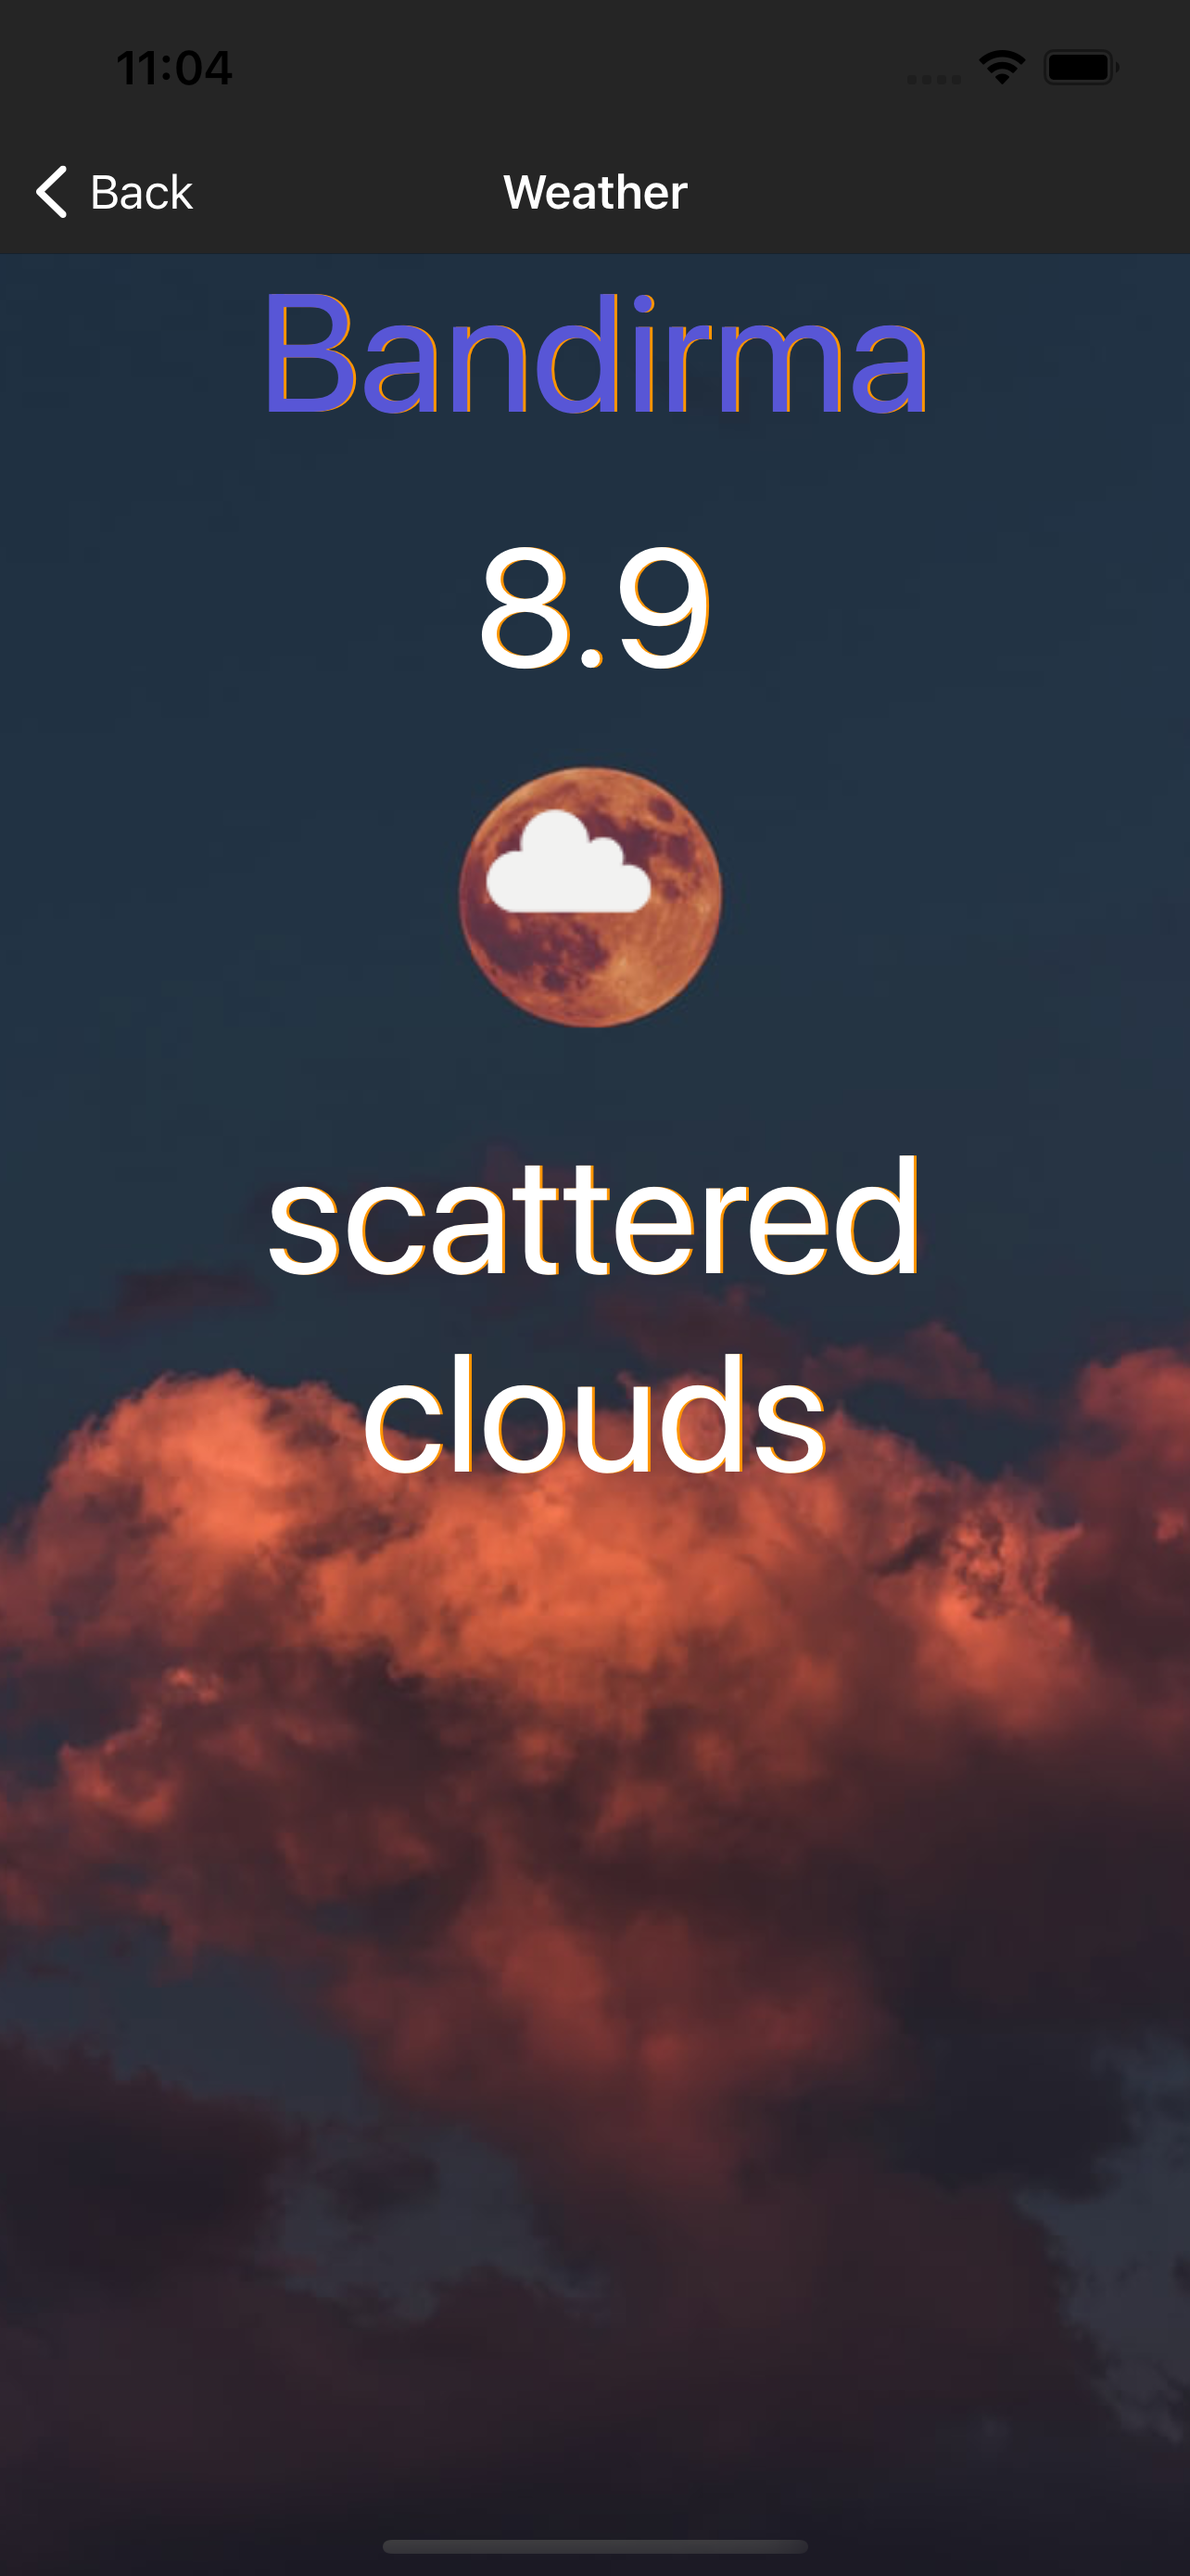
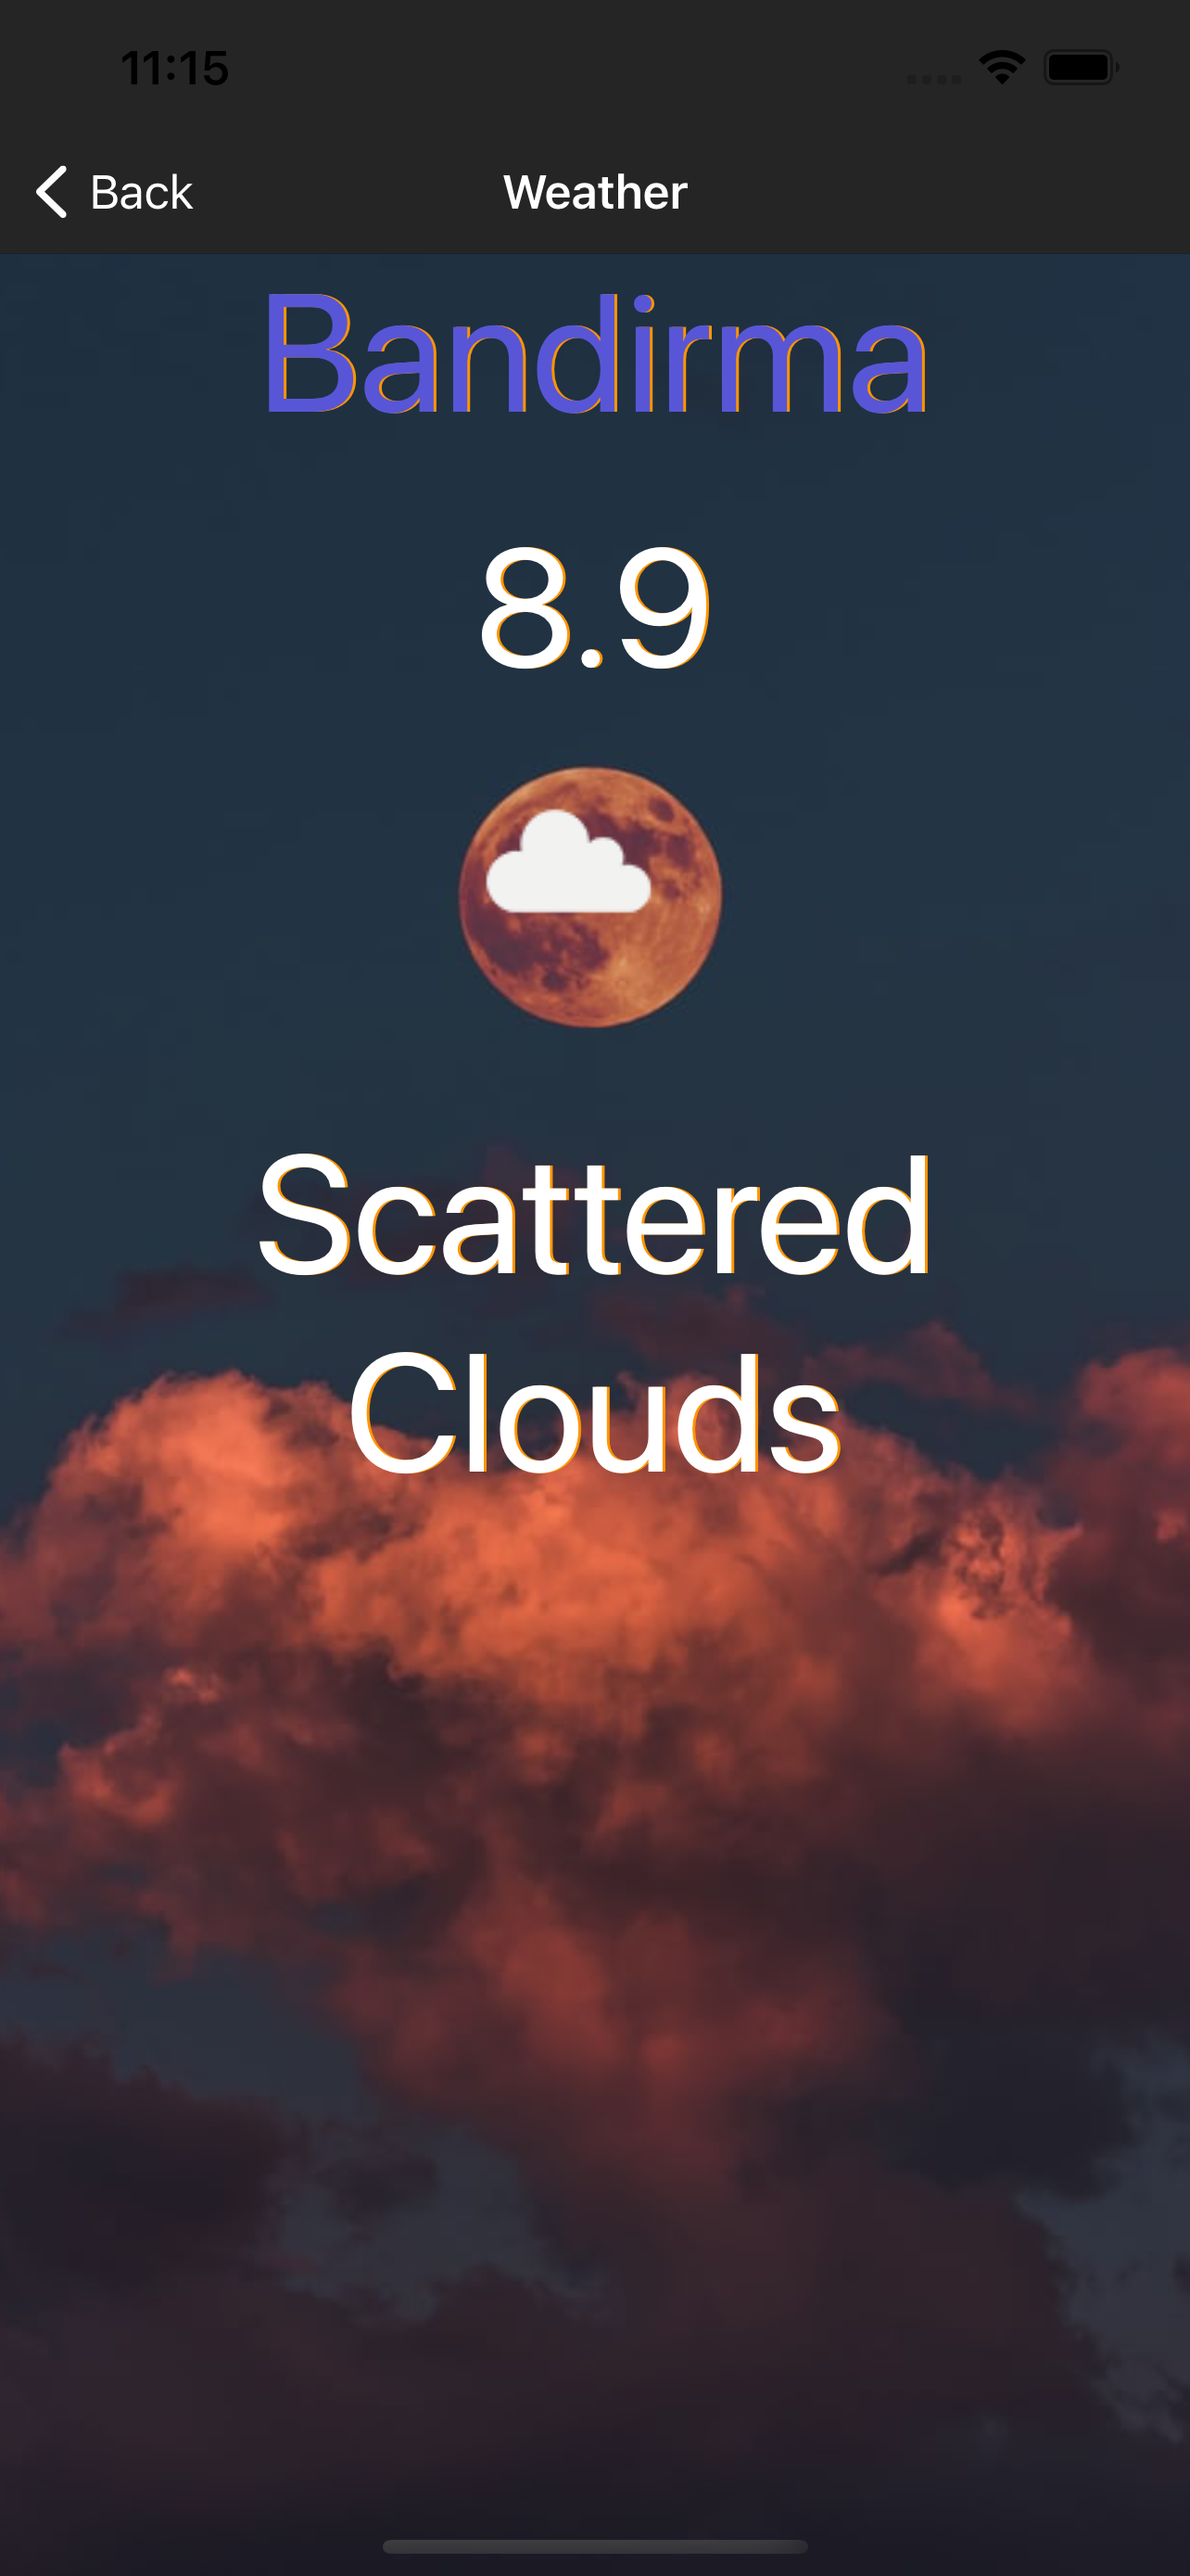
Update: Text Capitalized Update: Screenshot4

Changed region(s): [[0.2804, 0.5263, 0.7165, 0.5882], [0.2181, 0.4334, 0.7788, 0.4953], [0.0935, 0.0, 0.1869, 0.031]]

diff --git a/DetailViewController.swift b/DetailViewController.swift
@@ -28,7 +28,7 @@ class DetailViewController: UIViewController {
     func loadWeather(weather: WeatherResponse) {
         DispatchQueue.main.sync {
             self.weatherLabel.text = String(format: "%.1f", weather.main.temp - 273.15)
-            self.iconLabel.text = String(weather.weather.first!.description)
+            self.iconLabel.text = String(weather.weather.first!.description).capitalized
             let iconName = String(weather.weather.first!.icon)
             iconImageView.image = UIImage(named: "\(iconName).png")
         }
